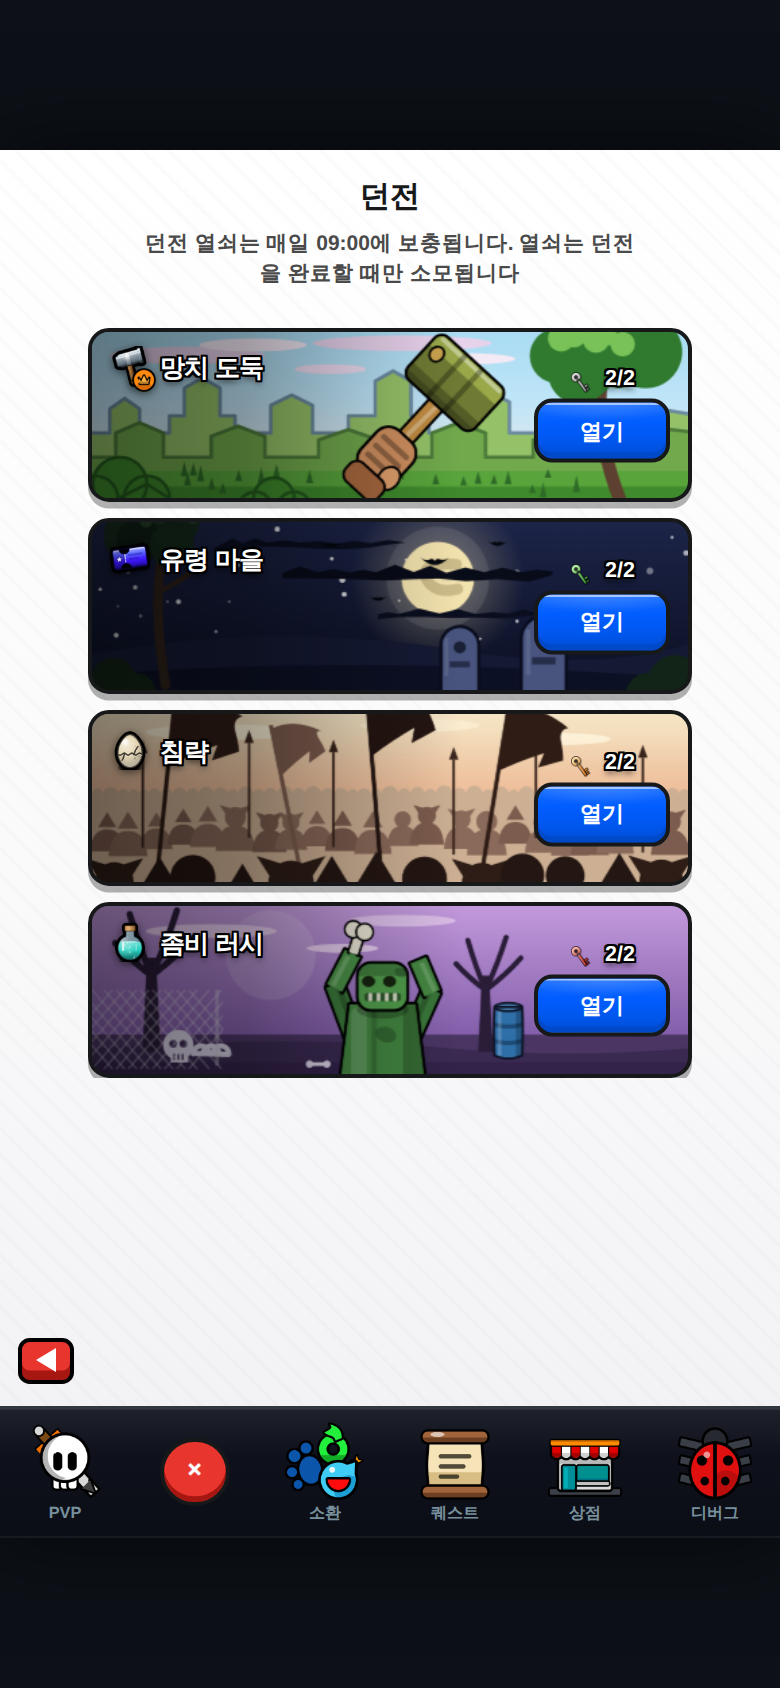
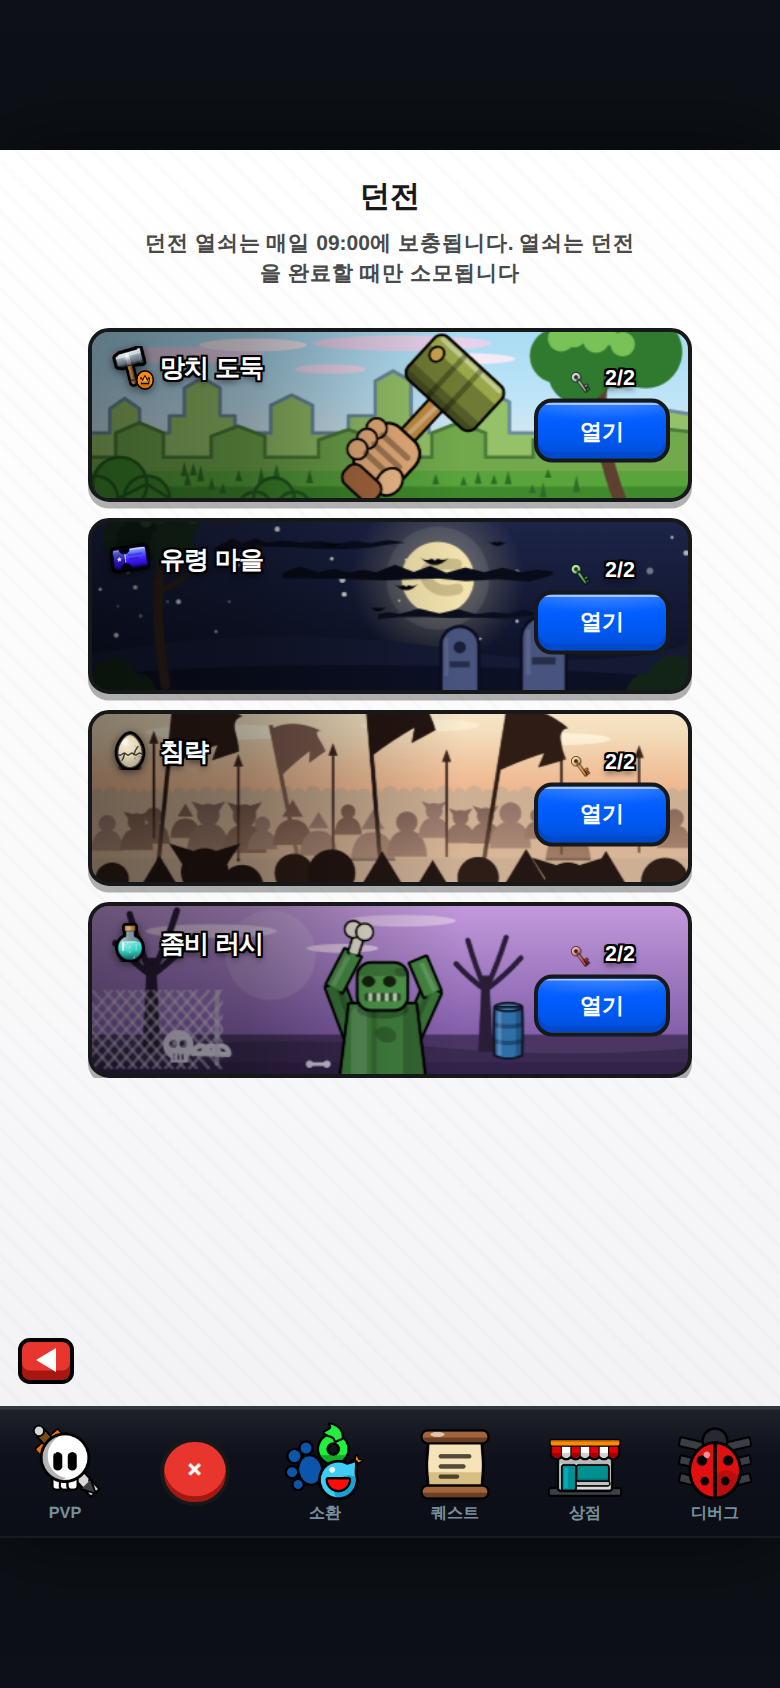
던전 행 재채점 3차 반영 — 주먹을 살구톤+너클 스캘럽으로 분리·달 가장자리 박쥐 오클루전·군중 변주 확대·철망 강화·지면 헤이즈 (dungeon-row-quality)
3차 비평가(63/76, 추세 45→55→63 · 42→66→76): ⑴ 주먹이 자루와 같은 갈색이라 3라운드 연속 '손 없는 막대'로 오독 → 밝은 살구톤 + 왼 가장자리 너클 스캘럽 3개 + 분리 엄지 + 크기 확대 ⑵ 달 왼 가장자리에 박쥐를 걸쳐 원반 오클루전 ⑶ 침략 군중 색 4종·키/크기 진폭 확대(타일링 패턴 깨기) + 지면 먼지 헤이즈 + 노을 채도 상향 ⑷ 좀비 철망 메쉬 굵기/불투명도 상향 ⑸ 보상 부 뱃지 축소(.92→.78em).
검증: probe-dungeons-px -0.99%p·초과 0, probe-dungeon-title-ink 4행 통과, 콘솔 에러 0

diff --git a/web/js/icongen.js b/web/js/icongen.js
@@ -3752,11 +3752,16 @@ IconGen._genderSym = function (ctx, S, female) {
         ctx.save();                                                                       // 주먹 — 자루 중간을 감아쥔다
         // 수직 자루(θ=-π/2) 코드의 무회전이 기준이므로, 임의 기울기에선 θ+π/2 만큼 돌린다.
         ctx.translate(1.705 * S, 0.735 * S); ctx.rotate(SWING + Math.PI / 2);
-        ink(ctx, S, rrect(ctx, S, -0.130, -0.150, 0.260, 0.300, 0.085), '#cf8f5f', 0.032);
-        [-0.088, -0.020, 0.048].forEach(y =>                                              // 손가락 골(자루와 직교)
-            on(ctx, rrect(ctx, S, -0.104, y, 0.208, 0.032, 0.016), 'rgba(0,0,0,.30)'));
-        ink(ctx, S, ell(ctx, S, 0.096, 0.086, 0.052, 0.066), '#e0a06d', 0.026);           // 엄지(감아쥔 쪽)
-        ink(ctx, S, rrect(ctx, S, -0.120, 0.128, 0.240, 0.130, 0.050), '#a8683f', 0.028); // 손목(주먹보다 좁고 어둡다)
+        /* ⚠ 주먹 색을 자루(#c08b41)와 같은 갈색 계열(#cf8f5f)로 하면 배너 축소에서 자루와 한
+           덩어리로 녹아 '손 없는 막대'로 읽힌다 — 3라운드 연속 비평가 전원이 그렇게 오독했다.
+           밝은 살구톤 + 왼 가장자리 너클 스캘럽 + 분리된 엄지로 '주먹'을 세운다. */
+        ink(ctx, S, rrect(ctx, S, -0.150, -0.165, 0.300, 0.330, 0.095), '#e8ae7a', 0.034);
+        [[-0.152, -0.080], [-0.152, 0.002], [-0.152, 0.084]].forEach(p =>                 // 너클 스캘럽(왼 가장자리)
+            ink(ctx, S, circle(ctx, S, p[0], p[1], 0.052), '#e8ae7a', 0.026));
+        [-0.092, -0.020, 0.052].forEach(y =>                                              // 손가락 골(자루와 직교)
+            on(ctx, rrect(ctx, S, -0.118, y, 0.230, 0.034, 0.017), 'rgba(0,0,0,.30)'));
+        ink(ctx, S, ell(ctx, S, 0.112, 0.098, 0.062, 0.080), '#f2bd8b', 0.028);           // 엄지(감아쥔 쪽, 한 단 더 밝게)
+        ink(ctx, S, rrect(ctx, S, -0.115, 0.150, 0.230, 0.125, 0.050), '#a8683f', 0.028); // 손목(주먹보다 좁고 어둡다)
         ctx.restore();
         ctx.save();                                                                       // 머리 — 자루 끝(우상단)
         // 머리 상자는 세로(local y)가 장축 = 자루와 직교하려면 회전각이 자루 기울기 그대로여야 한다.
@@ -3833,7 +3838,8 @@ IconGen._genderSym = function (ctx, S, female) {
             ctx.closePath(); ctx.fillStyle = '#05070f'; ctx.fill();
         };
         bat(W * 0.575, H * 0.245, H * 0.085);                             // 달 원반 위(실루엣 대비 최대)
-        bat(W * 0.40, H * 0.15, H * 0.060); bat(W * 0.48, H * 0.46, H * 0.052); bat(W * 0.68, H * 0.14, H * 0.058);
+        bat(W * 0.527, H * 0.395, H * 0.070);                             // 달 왼 가장자리에 걸쳐 원반을 파먹는다(오클루전 — 비평가 3차)
+        bat(W * 0.40, H * 0.15, H * 0.060); bat(W * 0.48, H * 0.52, H * 0.052); bat(W * 0.68, H * 0.14, H * 0.058);
         // 언덕 2겹
         fill(ctx, '#151a34', () => { ctx.moveTo(0, H * 0.78); ctx.quadraticCurveTo(W * 0.30, H * 0.58, W * 0.62, H * 0.76); ctx.quadraticCurveTo(W * 0.85, H * 0.88, W, H * 0.72); ctx.lineTo(W, H); ctx.lineTo(0, H); });
         fill(ctx, '#0c1024', () => { ctx.moveTo(0, H * 0.90); ctx.quadraticCurveTo(W * 0.45, H * 0.78, W, H * 0.92); ctx.lineTo(W, H); ctx.lineTo(0, H); });
@@ -3892,7 +3898,7 @@ IconGen._genderSym = function (ctx, S, female) {
         cloud(W * 0.78, H * 0.16, W * 0.09, H * 0.035, '#fdf3da');
         (() => {                                                          // 중단 장밋빛 띠 — 노을 다단 전환(비평가 재채점 '2단 그라디언트 납작')
             const hz = ctx.createLinearGradient(0, H * 0.12, 0, H * 0.50);
-            hz.addColorStop(0, 'rgba(246,160,128,0)'); hz.addColorStop(1, 'rgba(246,160,128,.30)');
+            hz.addColorStop(0, 'rgba(244,146,100,0)'); hz.addColorStop(1, 'rgba(244,146,100,.38)');   // 새벽 주황-핑크를 진하게(비평가 3차 '워시아웃')
             ctx.fillStyle = hz; ctx.fillRect(0, 0, W, H);
         })();
         // 뒤 열 — 연갈 띠, 위 가장자리가 투구 혹(반원 연쇄)
@@ -3915,8 +3921,9 @@ IconGen._genderSym = function (ctx, S, female) {
             }
             fill(ctx, c, () => { ctx.moveTo(x - r * 1.9, y + r * 3.2); ctx.quadraticCurveTo(x - r * 1.7, y + r * 0.7, x, y + r * 0.75); ctx.quadraticCurveTo(x + r * 1.7, y + r * 0.7, x + r * 1.9, y + r * 3.2); ctx.closePath(); });   // 어깨(넓고 낮게)
         };
+        const MIDC = ['#8a6a5a', '#7c5c4e', '#94756a', '#82655b'];         // 색·키·크기를 함께 흔들어 타일링 패턴을 깬다(비평가 3차)
         for (let i = 0; i < 22; i++)                                       // 중간 열 — 몸은 겹치고 머리 혹만 갈린다
-            figure(W * (i / 22 + 0.010 + R() * 0.02), H * (0.60 + R() * 0.05), 0.85 + R() * 0.3, i % 3 ? '#8a6a5a' : '#7c5c4e', (R() * 3) | 0);
+            figure(W * (i / 22 + 0.010 + R() * 0.02), H * (0.575 + R() * 0.085), 0.72 + R() * 0.55, MIDC[(R() * 4) | 0], (R() * 3) | 0);
         // 창 — 군중 사이에서 올라오는 자루+창끝
         for (let i = 0; i < 6; i++) {
             const x = W * (0.06 + i * 0.17 + R() * 0.05), top = H * (0.18 + R() * 0.14);
@@ -3943,8 +3950,13 @@ IconGen._genderSym = function (ctx, S, female) {
         banner(W * 0.14, -H * 0.10, H * 0.40, H * 0.42, 0.10, '#2e1c15');
         banner(W * 0.46, -H * 0.14, H * 0.38, H * 0.40, -0.08, '#241511');
         banner(W * 0.70, -H * 0.05, H * 0.36, H * 0.40, 0.16, '#2e1c15');
+        (() => {                                                           // 지면 먼지/헤이즈 — 하단이 딱딱하게 끊기지 않게(비평가 3차)
+            const hz = ctx.createLinearGradient(0, H * 0.55, 0, H * 0.82);
+            hz.addColorStop(0, 'rgba(242,196,156,0)'); hz.addColorStop(1, 'rgba(242,196,156,.30)');
+            ctx.fillStyle = hz; ctx.fillRect(0, H * 0.40, W, H * 0.45);
+        })();
         for (let i = 0; i < 13; i++)                                       // 앞 열 — 몸이 이어진 암갈 덩어리에서 머리 혹이 갈린다
-            figure(W * (i / 13 + 0.015 + R() * 0.025), H * (0.94 + R() * 0.07), 2.0 + R() * 0.45, i % 4 ? '#241612' : '#2e1d16', (R() * 3) | 0);
+            figure(W * (i / 13 + 0.015 + R() * 0.025), H * (0.915 + R() * 0.10), 1.75 + R() * 0.8, i % 4 ? '#241612' : '#2e1d16', (R() * 3) | 0);
     };
 
     /* 🧟 좀비 러시 — 보라 하늘 + 고목 2그루 + 철망 울타리 + 드럼통 */
@@ -4030,14 +4042,14 @@ IconGen._genderSym = function (ctx, S, female) {
            낮게(y 0.52~0.90H) 깔아 지평선 소품으로 읽히게 한다. */
         ctx.save();
         ctx.beginPath(); ctx.rect(0, H * 0.50, W * 0.22, H * 0.46); ctx.clip();
-        ctx.strokeStyle = 'rgba(220,215,230,.30)'; ctx.lineWidth = H * 0.012;
+        ctx.strokeStyle = 'rgba(220,215,230,.45)'; ctx.lineWidth = H * 0.019;   // 메쉬를 굵고 진하게 — 얇으면 재질감이 죽는다(비평가 3차)
         for (let i = -4; i < 9; i++) {
             ctx.beginPath(); ctx.moveTo(i * H * 0.07, H * 0.50); ctx.lineTo(i * H * 0.07 + H * 0.40, H * 0.96); ctx.stroke();
             ctx.beginPath(); ctx.moveTo(i * H * 0.07 + H * 0.40, H * 0.50); ctx.lineTo(i * H * 0.07, H * 0.96); ctx.stroke();
         }
         ctx.restore();
         ctx.save();
-        ctx.strokeStyle = 'rgba(200,195,212,.45)'; ctx.lineWidth = H * 0.022;
+        ctx.strokeStyle = 'rgba(200,195,212,.62)'; ctx.lineWidth = H * 0.026;
         ctx.beginPath(); ctx.moveTo(W * 0.21, H * 0.50); ctx.lineTo(W * 0.21, H * 0.94); ctx.stroke();
         ctx.restore();
 

diff --git a/web/css/style.css b/web/css/style.css
@@ -1727,8 +1727,8 @@ body {
     background-size: 100%; background-position: center; background-repeat: no-repeat;
     filter: drop-shadow(0 .10em .16em rgba(0,0,0,.55));
 }
-.dg-rw .dg-rw-ico + .dg-rw-ico {   /* 부 재화 — 같은 슬롯 우하단에 작게 얹는다(폭은 안 늘어난다) */
-    inset: auto -.22em -.16em auto; width: .92em; height: .92em;
+.dg-rw .dg-rw-ico + .dg-rw-ico {   /* 부 재화 — 같은 슬롯 우하단에 작게 얹는다(폭은 안 늘어난다). 크면 슬롯이 번잡해진다(비평가 3차) */
+    inset: auto -.18em -.13em auto; width: .78em; height: .78em;
 }
 .dg-info { flex: 1; min-width: 0; display: flex; flex-direction: column; gap: .15rem; font-size: .8rem; }
 .dg-keys { font-size: .75rem; font-weight: 800; color: #ffd54f; }
